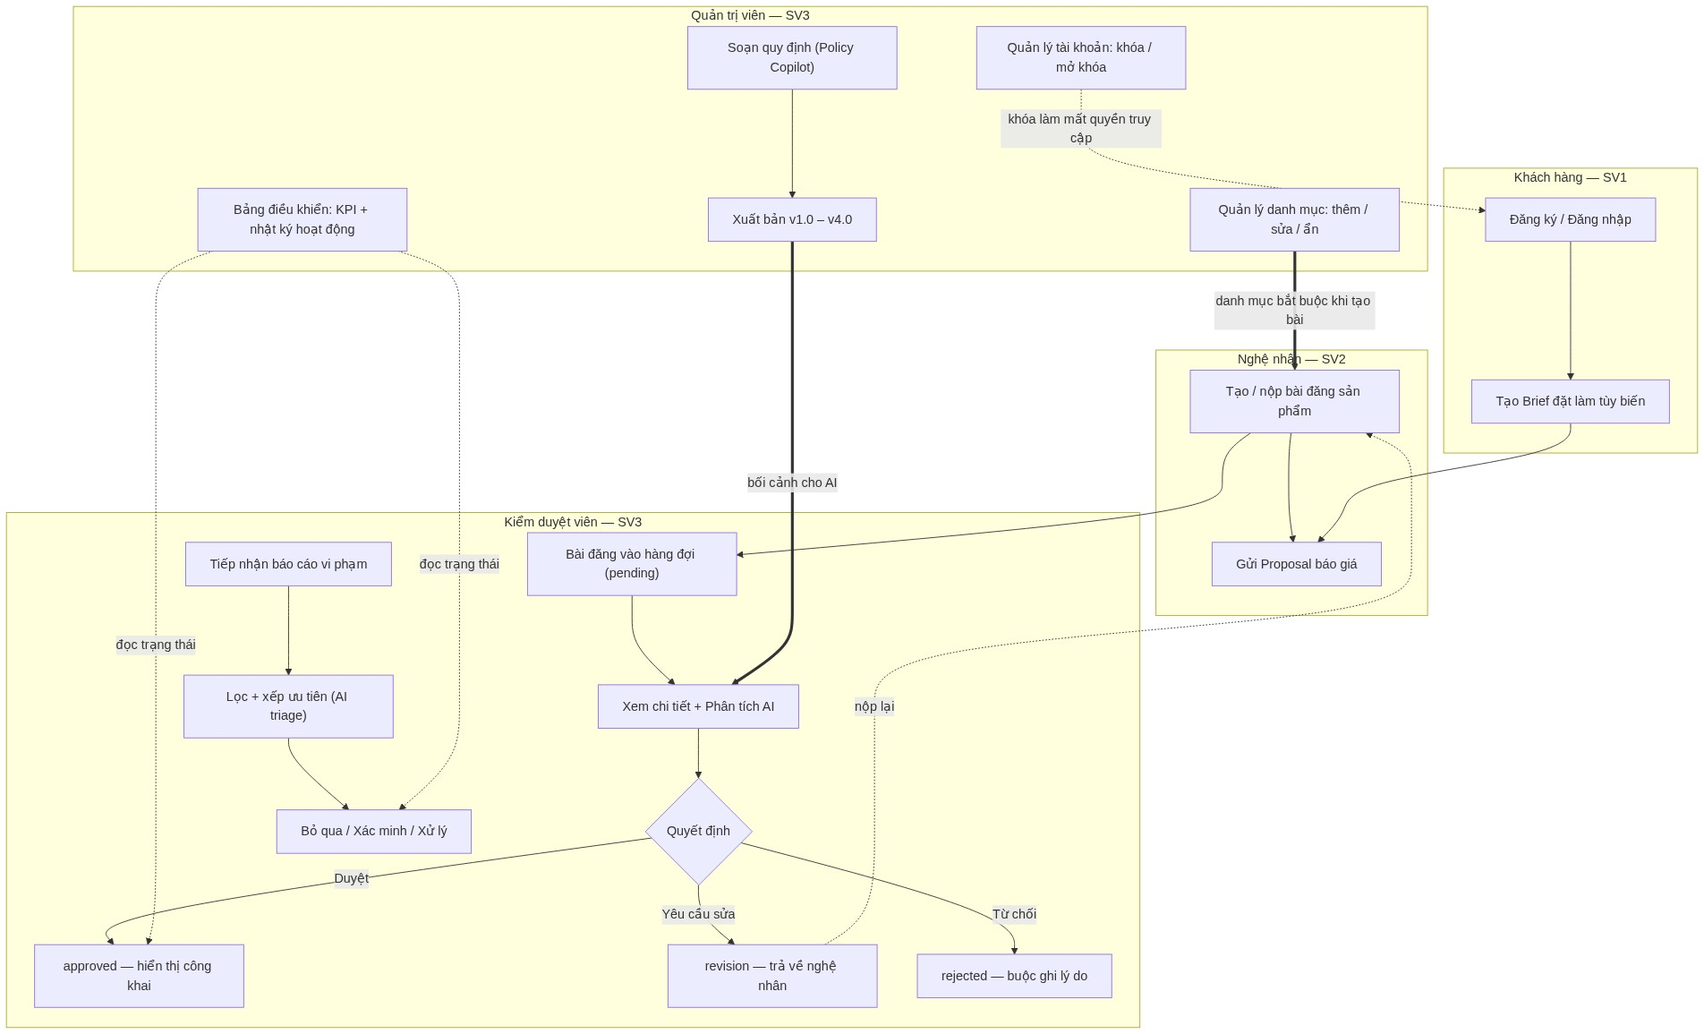
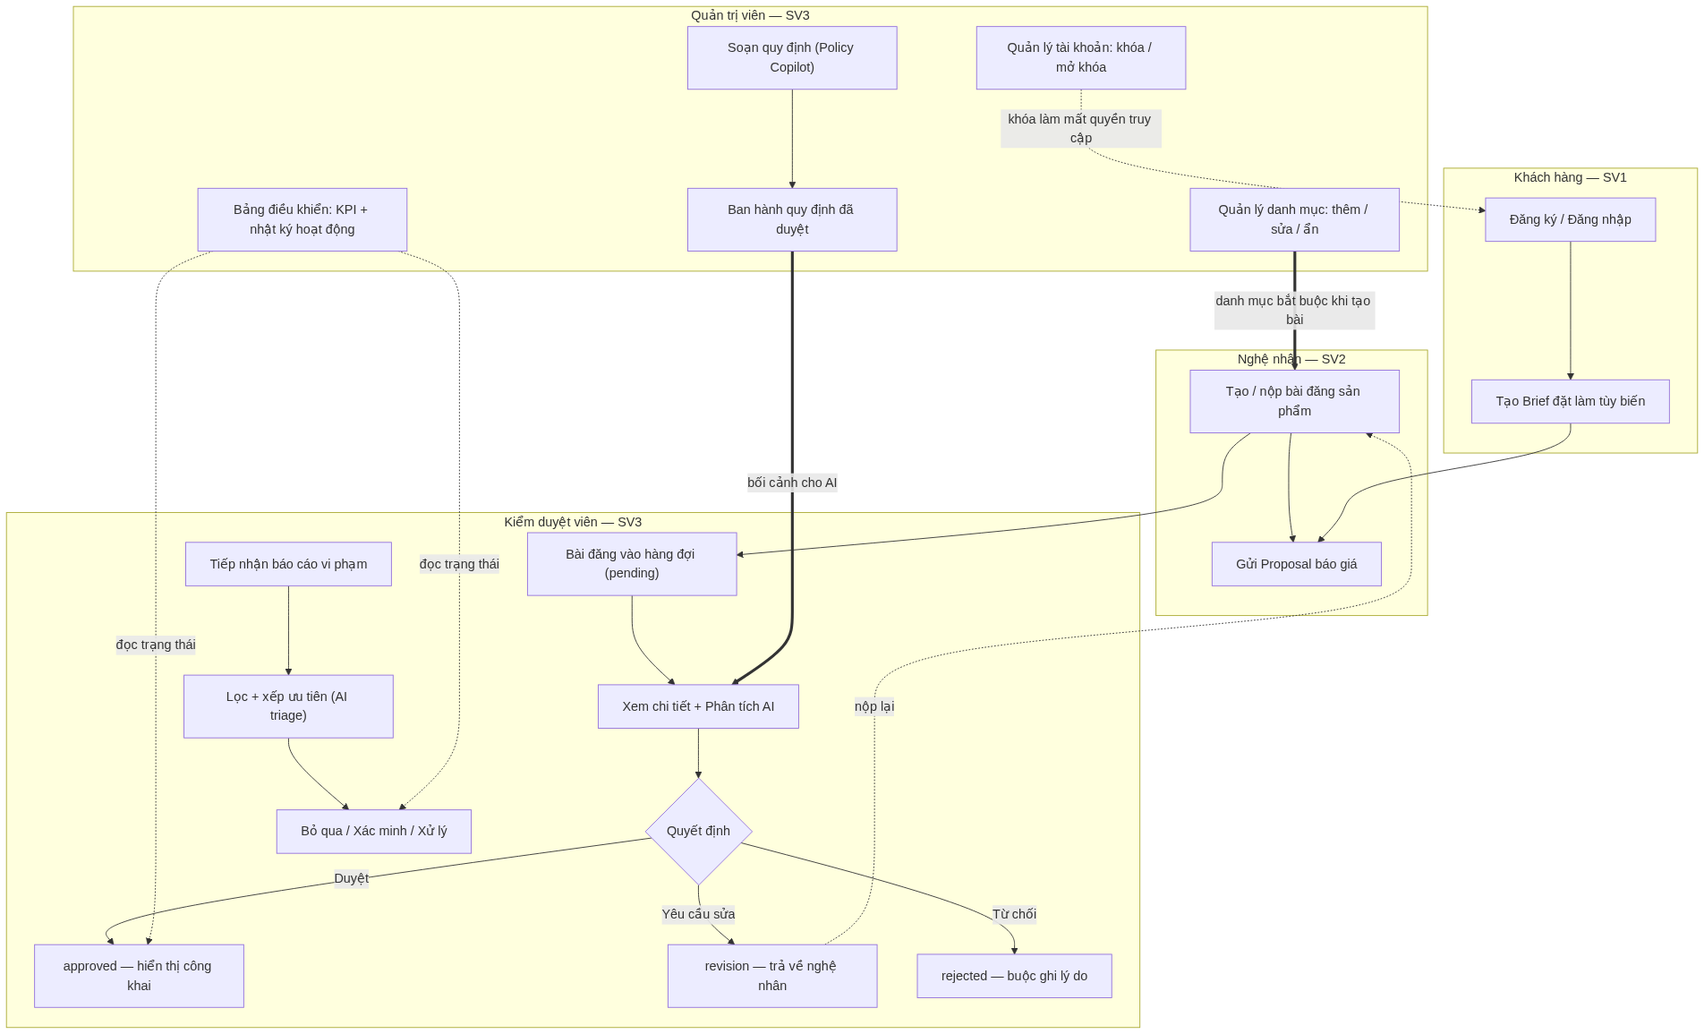
docs: add P1-P4, O1-O7, entity list and state matrix to the proposal
Rubric 1.1 grades four things and the proposal only had a paragraph of
context: it now states four concrete problems, seven measurable
objectives, the five real data entities with their storage keys, and the
full lifecycle matrix for product, report, user, category and guideline.

The user flow also gains a sitemap for all 18 screens, drops the claim
that guidelines are published as v1.0-v4.0 (the code has no version
history), and cites the line that feeds guidelines into the AI context.

Changed region(s): [[0.4028, 0.1558, 0.5268, 0.2494]]

diff --git a/docs/project-proposal.md b/docs/project-proposal.md
@@ -1,33 +1,118 @@
 # Project Proposal — CraftLink
 
-Barem yêu cầu ở đâu: Tiêu chí 1 (Tư duy sản phẩm, Phân tích bài toán & Thiết kế UI/UX, 1.00đ) liệt kê minh chứng là `README.md`, **`docs/project-proposal.md`**, `docs/screen-inventory.md`, link Figma/Canva.
+Barem yêu cầu ở đâu: Tiêu chí 1 (Tư duy sản phẩm, Phân tích bài toán & Thiết kế UI/UX, 1.00đ) liệt kê minh chứng là `README.md`, **`docs/project-proposal.md`**, `docs/screen-inventory.md`, link Figma/Canva. Mục 1.1 chấm bốn thứ: chuyện thực tế của lĩnh vực, phát biểu vấn đề P1–P4, danh sách thực thể dữ liệu, và ma trận vòng đời trạng thái. Bốn mục đó nằm ngay dưới đây; bối cảnh dài hơn ở `project-introduction.md`.
 
-Nội dung đề tài đầy đủ đã có trong `project-introduction.md` (TỔNG QUAN DỰ ÁN & PHẠM VI HỆ THỐNG). Tệp này tồn tại để đúng tên minh chứng barem và để tóm tắt phần đã chốt. Nếu nhóm muốn chỉ giữ một tệp, đổi tên `project-introduction.md` thành `project-proposal.md` rồi xóa tệp này — quyết định thuộc về cả nhóm, không thuộc về một thành viên.
+## 1. Câu chuyện thực tế
 
-## Bài toán
+Một xưởng gốm ba người ở Bát Tràng nhận đơn qua Zalo. Khách gửi ảnh chụp màn hình một chiếc cốc trên Pinterest, kèm câu "làm giống vầy, cao hơn chút". Xưởng trả lời bằng tin nhắn thoại. Bốn tuần sau khách nhận hàng và nói "không giống ảnh". Không ai sai, nhưng cũng không ai giữ được bản mô tả nào để đối chiếu: yêu cầu nằm rải trong 60 tin nhắn, giá chốt bằng lời, tiến độ hỏi miệng.
 
-CraftLink là nền tảng thương mại điện tử cho sản phẩm thủ công mỹ nghệ đặt làm theo yêu cầu, nối ba nhóm người dùng: khách hàng tìm và đặt làm sản phẩm độc bản, nghệ nhân bán sản phẩm và nhận brief tùy biến, cùng kiểm duyệt viên/quản trị viên giữ chất lượng nội dung và an toàn giao dịch.
+Ba hệ quả lặp lại ở mọi xưởng nhỏ:
 
-## Phạm vi và số màn hình
+- **Yêu cầu không có hình dạng cố định.** Brief nằm trong tin nhắn nên không lọc, không đếm, không chuyển giao được khi người phụ trách đổi ca.
+- **Bài đăng không có cửa kiểm soát.** Sản phẩm lên sàn ngay khi bấm đăng; ảnh mượn của xưởng khác và mô tả sai chất liệu chỉ bị phát hiện sau khi khách đã trả tiền.
+- **Tranh chấp không có hồ sơ.** Khiếu nại đến dưới dạng tin nhắn riêng, người xử lý không thấy lịch sử bài đăng, không thấy quy định nào đang có hiệu lực.
+
+CraftLink dựng lại ba điểm đứt đó thành dữ liệu có trạng thái: brief là bản ghi, bài đăng phải qua hàng đợi duyệt, và mọi quyết định kiểm duyệt dựa trên bản quy định đã ban hành.
+
+## 2. Phát biểu vấn đề P1–P4
+
+| Mã | Nhóm người dùng | Vấn đề cụ thể | Hậu quả đo được | Hệ thống trả lời bằng |
+|---|---|---|---|---|
+| **P1** | Khách hàng đặt làm | Không có chỗ mô tả ý tưởng theo cấu trúc (chất liệu, kích thước, ngân sách, hạn) nên mỗi lần đặt lại phải kể lại từ đầu bằng tin nhắn | Tỉ lệ phải làm lại sản phẩm cao; khách không so sánh được báo giá vì mỗi xưởng hỏi một kiểu | Brief có trường bắt buộc + gợi ý ngân sách; chọn nghệ nhân theo tiêu chí đã nhập |
+| **P2** | Thợ thủ công | Brief đến rải rác nhiều kênh, không có trạng thái "đã đọc / đã phản hồi", nên brief cũ bị bỏ quên | Mất đơn vì phản hồi chậm; không biết brief nào còn treo | Hòm thư brief có lọc theo trạng thái; proposal soạn một lần, xem trước đúng nội dung khách nhận |
+| **P3** | Kiểm duyệt viên | Duyệt bài bằng mắt trên từng bài, không có căn cứ ghi lại; bài vi phạm giống nhau bị xử lý khác nhau giữa các ca | Quyết định không nhất quán, không giải thích được khi người bán khiếu nại | Hàng đợi có điểm rủi ro + lý do, ghi rõ nguồn kết luận; từ chối buộc ghi chú |
+| **P4** | Quản trị viên | Quy định nội dung nằm trong tệp rời, không biết bản nào đang có hiệu lực; danh mục và tài khoản không có nơi khóa tập trung | Sửa quy định xong nhưng người kiểm duyệt vẫn áp bản cũ; tài khoản vi phạm vẫn đăng nhập được | Quy định có trạng thái và người xác nhận; khóa danh mục và khóa tài khoản có hiệu lực ngay trên dữ liệu dùng chung |
+
+## 3. Mục tiêu O1–O7
+
+| Mã | Mục tiêu | Cách đo trong bài |
+|---|---|---|
+| **O1** | Chuẩn hóa yêu cầu đặt làm thành dữ liệu có trường bắt buộc | Brief thiếu trường bắt buộc bị chặn tại chỗ, có thông báo lỗi cạnh trường |
+| **O2** | Rút ngắn đường từ brief đến báo giá | Brief xuất hiện trong hòm thư người bán; proposal soạn và xem trước trong cùng một màn |
+| **O3** | Mọi bài đăng đi qua kiểm duyệt trước khi hiển thị | `products.json` có 14/20 bản ghi ở trạng thái `pending`; chỉ bản ghi `approved` được coi là đã duyệt |
+| **O4** | Quyết định kiểm duyệt có căn cứ và truy vết được | Mỗi lần phân tích AI ghi rõ "nguồn: mô hình" hay "nguồn: bộ quy tắc cục bộ"; từ chối lưu `note` |
+| **O5** | Quy định nội dung có một bản đang hiệu lực | Quy định lưu cùng người xác nhận; kiểm duyệt viên đọc đúng bản đã ban hành |
+| **O6** | Quản trị tập trung danh mục và tài khoản | Khóa danh mục / khóa tài khoản đổi cờ `active` trong dữ liệu, có hiệu lực ở lần tải kế tiếp |
+| **O7** | Giao diện dùng được trên điện thoại và bàn phím | Có `@media` cho 320–1280px ở cả ba phân hệ; mọi thao tác chính chạm được bằng Tab, có `:focus-visible` |
+
+## 4. Thực thể dữ liệu
+
+Năm thực thể dưới đây là dữ liệu thật đang chạy, không phải danh sách dự kiến. Bản ghi mồi nằm trong `KiemDuyetVaQuanTri/assets/data/`, mỗi bộ 15–20 bản ghi theo đúng yêu cầu 15–25 bản ghi của tiêu chí 5.3.
+
+| Thực thể | Tệp mồi | Số bản ghi | Trường | Khóa lưu |
+|---|---|---|---|---|
+| **Product** (bài đăng sản phẩm) | `products.json` | 20 | `id, name, maker, price, age, image, description, status, note, category` | `craftlink:data:v1:products` |
+| **Report** (báo cáo vi phạm) | `reports.json` | 20 | `id, sender, target, type, reason, date, status` | `craftlink:data:v1:reports` |
+| **User** (tài khoản) | `users.json` | 20 | `name, email, role, date, active, image` | `craftlink:data:v1:users` |
+| **Category** (danh mục ngành hàng) | `categories.json` | 15 | `id, name, children, products, active, image` | `craftlink:data:v1:categories` |
+| **Guideline** (quy định nội dung) | `guidelines.json` | 15 | `id, title, group, text` | `craftlink:data:v1:guidelines` |
+
+Quan hệ: `Product.category` trỏ tới `Category.id`; `Product.maker` trỏ tới `User.name` với `role = maker`; `Report.target` trỏ tới `Product.name` hoặc `User.name` tùy `Report.type` (`Sản phẩm` / `Người dùng`). `User.role` nhận ba giá trị `buyer`, `maker`, `moderator` — quản trị viên là vai trò đăng nhập, không phải một bản ghi trong danh sách người dùng.
+
+## 5. Ma trận vòng đời trạng thái
+
+Cột "Ai đổi" là vai trò được phép bấm; cột "Màn hình" là nơi thao tác xảy ra. Giá trị trạng thái là chuỗi thật trong mã, không phải nhãn tự đặt.
+
+### 5.1 Product — hàng đợi kiểm duyệt
+
+| Trạng thái | Nghĩa | Ai đổi sang | Màn hình | Được đi tiếp tới |
+|---|---|---|---|---|
+| `pending` | Chờ duyệt, chưa hiển thị | Người bán nộp bài / nộp lại sau khi sửa | Quản lý listing (STT 8) | `approved`, `revision`, `rejected` |
+| `approved` | Đã duyệt, hiển thị công khai | Kiểm duyệt viên | Hàng đợi kiểm duyệt (STT 14) | — (kết thúc) |
+| `revision` | Cần chỉnh sửa, trả về người bán | Kiểm duyệt viên | Hàng đợi kiểm duyệt (STT 14) | `pending` (sau khi người bán sửa) |
+| `rejected` | Từ chối, buộc ghi lý do trong `note` | Kiểm duyệt viên | Hàng đợi kiểm duyệt (STT 14) | — (kết thúc) |
+
+### 5.2 Report — trung tâm báo cáo
+
+| Trạng thái | Nghĩa | Ai đổi sang | Màn hình | Được đi tiếp tới |
+|---|---|---|---|---|
+| `pending` | Vừa tiếp nhận, chưa ai xem | Người dùng gửi báo cáo | Trung tâm báo cáo (STT 15) | `verifying`, `dismissed`, `handled` |
+| `verifying` | Đang xác minh | Kiểm duyệt viên bấm *Xác minh* | Trung tâm báo cáo (STT 15) | `handled`, `dismissed` |
+| `handled` | Đã xử lý vi phạm | Kiểm duyệt viên bấm *Xử lý vi phạm* | Trung tâm báo cáo (STT 15) | — (kết thúc) |
+| `dismissed` | Bỏ qua, không đủ căn cứ | Kiểm duyệt viên bấm *Bỏ qua* | Trung tâm báo cáo (STT 15) | — (kết thúc) |
+
+### 5.3 User và Category — cờ `active`
+
+| Thực thể | `active = true` | `active = false` | Ai đổi | Màn hình |
+|---|---|---|---|---|
+| User | Đăng nhập được, xuất hiện trong bộ lọc vai trò | Bị khóa, không đăng nhập được | Quản trị viên bấm *Khóa / Mở khóa* | Quản lý tài khoản (STT 17) |
+| Category | Danh mục hiện trong bộ lọc phía người mua | Danh mục bị khóa, không chọn được khi đăng bài | Quản trị viên chuyển *Hiển thị / Khóa* | Quản lý danh mục (STT 16) |
+
+### 5.4 Guideline — quy định nội dung
+
+| Trạng thái | Nghĩa | Ai đổi | Màn hình |
+|---|---|---|---|
+| Bản nháp do AI soạn | Nội dung do `policy-copilot` sinh ra, chưa có hiệu lực | Quản trị viên sửa và bấm lưu | Quy định nội dung (STT 18) |
+| Đã lưu | Có trong `guidelines`, dùng làm căn cứ kiểm duyệt | Quản trị viên | Quy định nội dung (STT 18) |
+| Đã xóa | Xóa sau hộp thoại xác nhận, không khôi phục được | Quản trị viên | Quy định nội dung (STT 18) |
+
+Ghi chú trung thực: bản mã hiện tại **chưa** có lịch sử phiên bản quy định (v1.0–v4.0) và **chưa** có nút *Xuất bản* riêng; quy định lưu là có hiệu lực ngay. Chuỗi `-v4` xuất hiện trong mã chỉ là hậu tố khóa Local Storage.
+
+## 6. Phạm vi và số màn hình
 
 | Phân hệ | Vai trò | Số màn hình | STT trong kiểm kê | Mã nguồn |
 |---|---|---|---|---|
-| SV1 | Khách hàng | 6 | 1–6 | chờ đưa vào repo |
-| SV2 | Thợ thủ công / Nghệ nhân | 6 | 7–12 | chờ đưa vào repo |
+| SV1 | Khách hàng | 6 màn / 9 tệp | 1–6 | `KhachHang/` |
+| SV2 | Thợ thủ công / Nghệ nhân | 6 màn / 4 tệp | 7–12 | `KhongGianNguoiBan/` |
 | SV3 | Kiểm duyệt viên + Quản trị viên | 6 | 13–18 | `KiemDuyetVaQuanTri/` |
+| Cả nhóm | Đăng nhập / Đăng ký | 2 | ngoài bảng | `DangNhapVaDangKy/` |
 
-Tổng 18 màn hình, liệt kê 1:1 tại `screen-inventory.md`.
+Tổng 18 màn hình, liệt kê 1:1 tại `screen-inventory.md`, mỗi dòng trỏ đúng một tệp đang có trong repo.
 
-## Ba tính năng AI theo barem 6.1–6.3
+## 7. Ba tính năng AI
 
-1. **6.1 Gợi ý sản phẩm cho người mua** — loại tác vụ `product-discovery` đã có ở `api/ai.js`; màn hình người mua chưa nối giao diện.
-2. **6.2 Phân loại rủi ro nội dung** — `moderation-risk` trên màn hình Hàng đợi kiểm duyệt (STT 14) và `report-triage` trên Trung tâm báo cáo (STT 15).
-3. **6.3 Copilot nghiệp vụ** — `policy-copilot` trên màn hình Quy định nội dung (STT 18); bản nháp chỉ có hiệu lực sau khi quản trị viên xác nhận.
+Barem 6.1 cần tối thiểu ba tính năng AI; nhóm khai ba tính năng dưới đây, tất cả chạy được cả ở chế độ có mô hình và chế độ bộ quy tắc cục bộ.
 
-Chi tiết khai báo và giới hạn: `ai-usage-report.md`.
+| Mã | Tính năng | Loại tác vụ ở `api/ai.js` | Màn hình | Người quyết định cuối |
+|---|---|---|---|---|
+| **AI-1** | Chấm điểm rủi ro nội dung bài đăng | `moderation-risk` | Hàng đợi kiểm duyệt (STT 14) | Kiểm duyệt viên |
+| **AI-2** | Phân loại và xếp ưu tiên báo cáo | `report-triage` | Trung tâm báo cáo (STT 15) | Kiểm duyệt viên |
+| **AI-3** | Soạn nháp quy định nội dung | `policy-copilot` | Quy định nội dung (STT 18) | Quản trị viên |
 
-## Việc còn mở của đề tài
+AI không tự duyệt, tự xóa hay tự khóa tài khoản: mọi kết quả AI chỉ điền vào bản nháp để người có quyền bấm xác nhận. Cách nhóm đo và giới hạn: `ai-usage-report.md`.
 
-- proposal của SV1 và SV2 chưa có trong repo nên phần phân tích nghiệp vụ phía khách hàng và nghệ nhân chưa kiểm chứng được bằng mã nguồn.
-- Triển khai công khai (ĐK3) chưa thực hiện; xem mục CHẠY GIAO DIỆN của `../README.md` để chạy cục bộ.
-- Bảng công việc Trello/Jira công khai chưa có, nên mã `TASK-01…18` trong `screen-inventory.md` là mã dự kiến do nhóm tự đặt, chưa phải mã card thật.
+## 8. Việc còn mở
+
+- Triển khai công khai (ĐK3) chưa thực hiện; xem mục "Triển khai" của `../README.md`.
+- Bảng công việc Trello/Jira công khai chưa dựng; mã `TASK-01…18` trong `screen-inventory.md` là mã thẻ nhóm tự đặt, cần dán đúng mã đó lên board để thành mã card thật.
+- `api/ai.js` đã có endpoint nhưng chưa gắn biến môi trường trên nền tảng triển khai, nên bản demo công khai sẽ chạy bằng bộ quy tắc cục bộ.

diff --git a/docs/user-flow.md b/docs/user-flow.md
@@ -1,10 +1,49 @@
-# Sơ đồ User Flow — CraftLink
+# Sitemap & Sơ đồ User Flow — CraftLink
 
-Barem yêu cầu ở đâu: ĐK1 — "Đã có Bảng kiểm kê màn hình (`docs/screen-inventory.md`) + **Sơ đồ User Flow** + Thiết kế Figma/Canva"; Tiêu chí 1.2 đánh giá "Luồng người dùng (User Flow) & Bảng kiểm kê màn hình".
+Barem yêu cầu ở đâu: ĐK1 — "Đã có Bảng kiểm kê màn hình (`docs/screen-inventory.md`) + **Sơ đồ User Flow** + Thiết kế Figma/Canva"; Tiêu chí 1.2 chấm "Sitemap & User Flow cho toàn bộ Role" và "Bảng kiểm kê màn hình ghi đầy đủ 12 cột".
+
+## 1. Sitemap — 18 màn hình chia theo vai trò
+
+Số trong ngoặc là STT tương ứng ở `screen-inventory.md`. Mọi đường dẫn dưới đây là tệp đang có trong repo.
+
+```mermaid
+graph LR
+  ROOT["index.html — Landing bốn lối vào"]
+  AUTH["DangNhapVaDangKy/ — Đăng nhập, Đăng ký"]
+
+  ROOT --> AUTH
+  AUTH --> BUY["Khách hàng — KhachHang/"]
+  AUTH --> SELL["Nghệ nhân — KhongGianNguoiBan/"]
+  AUTH --> MOD["Kiểm duyệt — KiemDuyetVaQuanTri/"]
+  AUTH --> ADM["Quản trị — KiemDuyetVaQuanTri/"]
+
+  BUY --> U1["(1) index.html"]
+  BUY --> U2["(1) favorites.html"]
+  BUY --> U3["(2) product-detail.html"]
+  BUY --> U4["(3) customize.html"]
+  BUY --> U5["(4) artisan-suggestions.html"]
+  BUY --> U6["(5) cart.html"]
+  BUY --> U7["(5) checkout.html"]
+  BUY --> U8["(6) orders.html"]
+  BUY --> U9["(6) order-details.html"]
+
+  SELL --> S1["(7,8) 01-listing-management"]
+  SELL --> S2["(9) 02-brief-inbox"]
+  SELL --> S3["(10,11) 03-proposal-editor"]
+  SELL --> S4["(12) 04-shop-profile"]
+
+  MOD --> M1["(14) 04-moderation-queue"]
+  MOD --> M2["(15) 05-report-center"]
+
+  ADM --> A1["(13) 01-dashboard"]
+  ADM --> A2["(16) 02-category-management"]
+  ADM --> A3["(17) 03-user-management"]
+  ADM --> A4["(18) 06-content-guidelines"]
+```
+
+## 2. Luồng xuyên vai trò
 
 Bản render độ phân giải cao để đưa vào slide: `diagrams/user-flow-sv3-forest.png` (hoặc `.svg` để phóng to không vỡ). Mã nguồn sơ đồ là `diagrams/user-flow-sv3.mmd` — sửa tệp đó rồi chạy `node diagrams/render.mjs` để tái tạo ảnh.
-
-## Luồng xuyên vai trò
 
 ```mermaid
 flowchart TD
@@ -23,8 +62,8 @@ flowchart TD
     D1["Tiếp nhận báo cáo vi phạm"] --> D2["Lọc + xếp ưu tiên (AI triage)"] --> D3["Bỏ qua / Xác minh / Xử lý"]
   end
   subgraph ADM["Quản trị viên — SV3"]
-    E1["Soạn quy định (Policy Copilot)"] --> E2["Xuất bản v1.0 – v4.0"]
-    E3["Quản lý danh mục: thêm / sửa / ẩn"]
+    E1["Soạn quy định (Policy Copilot)"] --> E2["Ban hành quy định đã duyệt"]
+    E3["Quản lý danh mục: thêm / sửa / khóa"]
     E4["Quản lý tài khoản: khóa / mở khóa"]
     E5["Bảng điều khiển: KPI + nhật ký hoạt động"]
   end
@@ -33,23 +72,23 @@ flowchart TD
   C5 -.->|nộp lại| B1
   E2 ==>|bối cảnh cho AI| C2
   E3 ==>|danh mục bắt buộc khi tạo bài| B1
-  E4 -.->|khoa làm mat quyen truy cap| A1
+  E4 -.->|khóa làm mất quyền truy cập| A1
   E5 -.->|đọc trạng thái| C4
   E5 -.->|đọc trạng thái| D3
 ```
 
-## Bốn cạnh nối chứng minh các màn hình không rời rạc
+## 3. Bốn cạnh nối chứng minh các màn hình không rời rạc
 
-| Cạnh | Ý nghĩa nghiệp vụ | Màn hình hai đầu |
-|---|---|---|
-| Khách tạo Brief → Nghệ nhân gửi Proposal | Vòng đời đơn tùy biến khép kín giữa hai vai trò | STT 3 → STT 9–10 |
-| Nghệ nhân nộp bài → bài vào hàng đợi `pending` | Bài đăng không tự ra thị trường, phải qua kiểm duyệt | STT 7–8 → STT 14 |
-| Quản trị viên xuất bản quy định → hàng đợi dùng quy định làm căn cứ | Chính sách nội dung là dữ liệu đầu vào của kiểm duyệt, kể cả đầu vào prompt AI | STT 18 → STT 14 |
-| Quản trị viên khóa tài khoản → khách/nghệ nhân mất quyền truy cập | Phân quyền tác động trực tiếp lên hai vai trò kia | STT 17 → STT 1, 7 |
+| Cạnh | Ý nghĩa nghiệp vụ | Màn hình hai đầu | Bằng chứng trong mã |
+|---|---|---|---|
+| Khách tạo Brief → Nghệ nhân nhận Brief rồi gửi Proposal | Vòng đời đơn tùy biến khép kín giữa hai vai trò | STT 3 → STT 9–10 | `KhachHang/customize.html` → `KhongGianNguoiBan/02-brief-inbox`, `03-proposal-editor` |
+| Nghệ nhân nộp bài → bài vào hàng đợi `pending` | Bài đăng không tự ra thị trường, phải qua kiểm duyệt | STT 7–8 → STT 14 | `products.json`: 14/20 bản ghi `pending`; `04-moderation-queue/js/main.js:200` |
+| Quản trị viên ban hành quy định → hàng đợi dùng quy định làm căn cứ | Chính sách nội dung là dữ liệu đầu vào của kiểm duyệt, kể cả đầu vào prompt AI | STT 18 → STT 14 | `04-moderation-queue/js/main.js:158` nạp `guidelines`, `:349` gửi `guidelines` vào ngữ cảnh AI; `js/ai-fallback.js:60` đọc lại |
+| Quản trị viên khóa tài khoản → khách/nghệ nhân mất quyền truy cập | Phân quyền tác động trực tiếp lên hai vai trò kia | STT 17 → STT 1, 7 | `users.json` trường `active`; `03-user-management` đổi cờ này |
 
-Nhãn trạng thái `pending / approved / revision / rejected` là giá trị thật trong mã, không phải ký hiệu tự đặt; xem `KiemDuyetVaQuanTri/04-moderation-queue/js/main.js` (hàm `render`, bảng `statusNames`).
+Nhãn trạng thái `pending / approved / revision / rejected` là giá trị thật trong mã, không phải ký hiệu tự đặt; xem `KiemDuyetVaQuanTri/04-moderation-queue/js/main.js` (hàm `render`, bảng `statusNames` ở dòng 200). Báo cáo dùng `pending / verifying / handled / dismissed` (`05-report-center/js/main.js:176-178`).
 
-## Phần chưa hoàn thành
+## 4. Phần chưa hoàn thành
 
-- Nhãn màn hình ở lane SV1 và SV2 lấy theo `docs/screen-inventory.md` bản hiện tại; SV1 và SV2 phải xác nhận lại tên thật sau khi đưa mã nguồn vào `pages/`.
+- Landing page ở gốc repo mới chỉ là trang điều hướng bốn vai trò; Sitemap trong mục 1 là bản đầy đủ để đưa vào slide và báo cáo.
 - Bản thiết kế đi kèm: Canva của nhóm và Canva sáu màn hình quản trị (liên kết ở `../README.md`, mục LIÊN KẾT).
